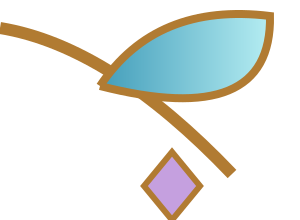
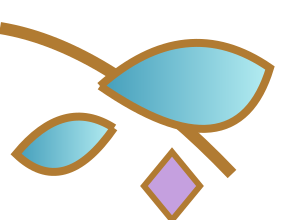
Improve cipher readability and make the final mirror puzzle visually distinct

Changed region(s): [[0.33, 0.0273, 0.93, 0.6273], [0.03, 0.4909, 0.39, 0.8182]]

diff --git a/enchanted-library/task-7.js b/enchanted-library/task-7.js
@@ -1,12 +1,12 @@
 'use strict';
 (()=>{const L=Library,A=L.art;let part=0;
-const descriptions=['Найди продолжение ряда. В ряду чередуются цвета и повторяются формы. Какой фигуры не хватает?','Открой второй замок: реши пример.','Найди недостающую часть узора. Справа должно быть зеркальное отражение левой стороны.'];
-const hints=['Проследи за цветами отдельно, а затем за формами. Цвета чередуются, а формы повторяются тройками.','Представь девять предметов. Убери четыре и сосчитай оставшиеся.','Представь зеркало на золотой линии посередине. Сравни изгиб стебля, форму листа и положение маленького кристалла.'];
-function pattern(){const lower=`<path d="M150 14 Q95 23 34 87" fill="none" stroke="#b17b32" stroke-width="6"/><path d="M100 43 Q57 5 15 34 Q32 90 100 43" fill="url(#jewel)" stroke="#b17b32" stroke-width="4"/><path d="M50 93 L64 76 L78 93 L64 110 Z" fill="#c5a0df" stroke="#b17b32" stroke-width="3"/>`;const top=`<path d="M175 120 Q70 103 47 35" fill="none" stroke="#b17b32" stroke-width="6"/><path d="M104 83 Q42 84 38 23 Q101 27 104 83" fill="#c7a0e2" stroke="#b17b32" stroke-width="4"/><path d="M138 49 L153 26 L165 50 L153 68Z" fill="#7ed0e2" stroke="#b17b32" stroke-width="3"/>`;return `<svg class="symmetry-pattern" viewBox="0 0 360 260" role="img" aria-label="Узор, симметричный относительно вертикальной золотой линии. Внизу справа отсутствует фрагмент."><defs><linearGradient id="jewel"><stop stop-color="#b5edf2"/><stop offset="1" stop-color="#429dba"/></linearGradient></defs><rect x="3" y="3" width="354" height="254" rx="22" fill="#fff4da" stroke="#c79b4d" stroke-width="5"/><path d="M180 13 V247" stroke="#bc8c37" stroke-width="3" stroke-dasharray="6 5"/>${top}<g transform="translate(360 0) scale(-1 1)">${top}</g><g transform="translate(20 135)">${lower}</g><rect id="pattern-hole" x="190" y="135" width="150" height="110" rx="10" fill="#e5d3ec" stroke="#9c6faa" stroke-width="2" stroke-dasharray="5 4"/><text id="pattern-question" x="265" y="200" text-anchor="middle" font-size="35" fill="#785488">?</text></svg>`;}
+const descriptions=['Найди продолжение ряда. В ряду чередуются цвета и повторяются формы. Какой фигуры не хватает?','Открой второй замок: реши пример.','Линия — это зеркало. Выбери фрагмент для пустого окошка: узор справа должен повторять левую сторону.'];
+const hints=['Проследи за цветами отдельно, а затем за формами. Цвета чередуются, а формы повторяются тройками.','Представь девять предметов. Убери четыре и сосчитай оставшиеся.','Линия посередине — это зеркало. Сравни, что растёт на веточке слева: листья или цветок? Сколько рядом маленьких кристаллов? Справа должно быть столько же, но в зеркальном положении.'];
+function pattern(){const lower=`<path d="M150 14 Q95 23 34 87" fill="none" stroke="#b17b32" stroke-width="6"/><path d="M100 43 Q57 5 15 34 Q32 90 100 43" fill="url(#jewel)" stroke="#b17b32" stroke-width="4"/><path d="M50 93 L64 76 L78 93 L64 110 Z" fill="#c5a0df" stroke="#b17b32" stroke-width="3"/>`;const top=`<path d="M175 120 Q70 103 47 35" fill="none" stroke="#b17b32" stroke-width="6"/><path d="M104 83 Q42 84 38 23 Q101 27 104 83" fill="#c7a0e2" stroke="#b17b32" stroke-width="4"/><path d="M138 49 L153 26 L165 50 L153 68Z" fill="#7ed0e2" stroke="#b17b32" stroke-width="3"/>`;return `<svg class="symmetry-pattern" viewBox="0 0 360 260" role="img" aria-label="Узор, симметричный относительно вертикальной золотой линии. Внизу справа отсутствует фрагмент."><defs><linearGradient id="jewel"><stop stop-color="#b5edf2"/><stop offset="1" stop-color="#429dba"/></linearGradient></defs><rect x="3" y="3" width="354" height="254" rx="22" fill="#fff4da" stroke="#c79b4d" stroke-width="5"/><path d="M180 13 V247" stroke="#348fa4" stroke-width="4" stroke-dasharray="8 5"/>${top}<g transform="translate(360 0) scale(-1 1)">${top}</g><g transform="translate(20 135)">${lower}</g><rect id="pattern-hole" x="190" y="135" width="150" height="110" rx="10" fill="#e5d3ec" stroke="#9c6faa" stroke-width="2" stroke-dasharray="5 4"/><text id="pattern-question" x="265" y="200" text-anchor="middle" font-size="35" fill="#785488">?</text></svg>`;}
 window.LibraryPattern={correct:2,description:'Mirror left lower ornament across x=180'};
 L.register(7,{title:'Семь печатей Книги',instruction:'Осталась последняя печать! Реши три загадки и открой три золотых замка Книги тысячи историй.',voice:()=>descriptions[part],hint:()=>hints[part],lumi:'lumi-reading',aside:'Мы почти у цели. Сказки ждут своего хранителя!',mount(root){part=0;let busy=false,done=false,timer;root.innerHTML=`<div class="final-book-layout"><div class="final-book"><img id="locked-book" src="assets/storybook.png" alt="Книга тысячи историй с тремя замками"><div class="locks" aria-label="Три золотых замка">${[1,2,3].map(i=>`<span class="lock" data-lock="${i-1}">${A('seal')}<b>${i}</b><small>Закрыт</small></span>`).join('')}</div></div><div class="final-challenge" id="challenge"></div></div>`;
 function unlock(){if(busy||done)return;busy=true;const lock=root.querySelector(`[data-lock="${part}"]`);lock.classList.add('unlocked');lock.querySelector('small').textContent='Открыт';L.tone();L.message('Верно! Замок открыт.');if(part===2){done=true;root.querySelector('#locked-book').src='assets/open-book.png';root.querySelector('#locked-book').alt='Открытая Книга тысячи историй';root.querySelector('.final-book').classList.add('finished-art');timer=setTimeout(L.success,1100);}else{root.querySelectorAll('#challenge button').forEach(b=>b.disabled=true);const next=document.createElement('button');next.textContent='К следующему замку';next.className='next-lock';next.onclick=()=>{part++;busy=false;paint();};root.querySelector('#challenge').append(next);}}
 function choose(correct){if(busy||done)return;if(correct)unlock();else L.message('Попробуй ещё раз!',true);}
-function paint(){const c=root.querySelector('#challenge');c.innerHTML=`<span class="chapter gold-text">ЗАМОК ${part+1} ИЗ 3</span><p class="caption">${descriptions[part]}</p>`;if(part===0){const seq=[['purple','triangle'],['blue','circle'],['purple','square'],['blue','triangle'],['purple','circle']];c.innerHTML+=`<div class="shape-sequence" aria-label="Фиолетовый треугольник, голубой круг, фиолетовый квадрат, голубой треугольник, фиолетовый круг, вопрос">${seq.map(([color,shape])=>A('shape-'+color+'-'+shape)).join('<span>→</span>')}<span>→</span><strong>?</strong></div><div class="choices shape-choices">${[['purple','square'],['blue','triangle'],['blue','square'],['purple','circle']].map(([co,sh],i)=>`<button data-sequence="${i}" aria-label="${co==='blue'?'Голубой':'Фиолетовый'} ${sh==='square'?'квадрат':sh==='triangle'?'треугольник':'круг'}">${A('shape-'+co+'-'+sh)}</button>`).join('')}</div>`;c.querySelectorAll('[data-sequence]').forEach(b=>b.onclick=()=>choose(+b.dataset.sequence===2));}else if(part===1){c.innerHTML+=`<div class="arithmetic">9 − 4 = ?</div><div class="choices">${[4,5,6].map(n=>`<button data-answer="${n}">${n}</button>`).join('')}</div>`;c.querySelectorAll('[data-answer]').forEach(b=>b.onclick=()=>choose(+b.dataset.answer===5));}else{c.innerHTML+=pattern()+`<div class="pattern-options">${[0,1,2,3].map(i=>`<button data-pattern="${i}" aria-label="Фрагмент ${i+1}">${A('pattern-'+i)}<span>${i+1}</span></button>`).join('')}</div>`;c.querySelectorAll('[data-pattern]').forEach(b=>b.onclick=()=>{if(busy||done)return;if(+b.dataset.pattern===2){const svg=root.querySelector('.symmetry-pattern');svg.querySelector('#pattern-hole').setAttribute('fill','#fff4da');svg.querySelector('#pattern-hole').setAttribute('stroke','none');svg.querySelector('#pattern-question').remove();svg.insertAdjacentHTML('beforeend','<image href="assets/pattern-2.png" x="190" y="135" width="150" height="110"/>');}choose(+b.dataset.pattern===2);});}L.speak(descriptions[part]);}paint();return()=>clearTimeout(timer);
+function paint(){const c=root.querySelector('#challenge');root.querySelector('.final-book-layout').classList.toggle('puzzle-mode',part===2);root.closest('.game-scene').classList.toggle('mirror-scene',part===2);c.classList.toggle('symmetry-mode',part===2);c.innerHTML=`<span class="chapter gold-text">ЗАМОК ${part+1} ИЗ 3</span><p class="caption">${descriptions[part]}</p>`;if(part===0){const seq=[['purple','triangle'],['blue','circle'],['purple','square'],['blue','triangle'],['purple','circle']];c.innerHTML+=`<div class="shape-sequence" aria-label="Фиолетовый треугольник, голубой круг, фиолетовый квадрат, голубой треугольник, фиолетовый круг, вопрос">${seq.map(([color,shape])=>A('shape-'+color+'-'+shape)).join('<span>→</span>')}<span>→</span><strong>?</strong></div><div class="choices shape-choices">${[['purple','square'],['blue','triangle'],['blue','square'],['purple','circle']].map(([co,sh],i)=>`<button data-sequence="${i}" aria-label="${co==='blue'?'Голубой':'Фиолетовый'} ${sh==='square'?'квадрат':sh==='triangle'?'треугольник':'круг'}">${A('shape-'+co+'-'+sh)}</button>`).join('')}</div>`;c.querySelectorAll('[data-sequence]').forEach(b=>b.onclick=()=>choose(+b.dataset.sequence===2));}else if(part===1){c.innerHTML+=`<div class="arithmetic">9 − 4 = ?</div><div class="choices">${[4,5,6].map(n=>`<button data-answer="${n}">${n}</button>`).join('')}</div>`;c.querySelectorAll('[data-answer]').forEach(b=>b.onclick=()=>choose(+b.dataset.answer===5));}else{c.innerHTML+=`<div class="mirror-workbench"><div class="mirror-board">`+pattern()+`<p class="mirror-note">Линия посередине — зеркало. Сравни листья, цветок и маленькие кристаллы.</p></div><div class="pattern-options">${[0,1,2,3].map(i=>`<button data-pattern="${i}" aria-label="Фрагмент ${i+1}">${A('pattern-'+i).replace('.png"','.png?v=2"')}<span>Вариант ${i+1}</span></button>`).join('')}</div></div>`;c.querySelectorAll('[data-pattern]').forEach(b=>b.onclick=()=>{if(busy||done)return;if(+b.dataset.pattern===2){const svg=root.querySelector('.symmetry-pattern');svg.querySelector('#pattern-hole').setAttribute('fill','#fff4da');svg.querySelector('#pattern-hole').setAttribute('stroke','none');svg.querySelector('#pattern-question').remove();svg.insertAdjacentHTML('beforeend','<image href="assets/pattern-2.png?v=2" x="190" y="135" width="150" height="110"/>');}choose(+b.dataset.pattern===2);});}L.speak(descriptions[part]);}paint();return()=>clearTimeout(timer);
 }});
 })();

diff --git a/enchanted-library/library.css b/enchanted-library/library.css
@@ -21,3 +21,15 @@
 /* A classic scrollbar must not force narrow phone layouts beyond the viewport. */
 body{min-width:0}.balance{width:100%;min-width:0}.balance-examples{grid-template-columns:repeat(2,minmax(0,1fr))}.balance-examples>div{min-width:0}
 @media(max-width:620px){.small-balance{min-height:0}}
+/* Readable cipher key: every symbol and letter stays on the central paper. */
+.cipher-table{gap:12px;padding:32px clamp(48px,6vw,82px);align-items:stretch}
+.cipher-table>div{flex-direction:column;gap:8px;padding:12px 6px;background:#fffdf4;border:1px solid #d3b275;border-radius:14px;box-shadow:0 3px 9px #895f2520}
+.cipher-table img{width:64px;height:64px;max-width:100%}.cipher-table span{font-size:29px;line-height:1.2;color:#3c204a}
+/* Give the mirror puzzle the full stage and large, visibly different choices. */
+.final-book-layout.puzzle-mode{grid-template-columns:minmax(0,1fr);gap:18px}.puzzle-mode .final-book{display:flex;align-items:center;justify-content:center;gap:24px}.puzzle-mode .final-book>img{width:90px;max-height:110px}.puzzle-mode .locks{margin:0}
+.symmetry-mode .symmetry-pattern{width:100%;max-width:620px;max-height:none;margin:18px auto}.symmetry-mode .caption{font-size:20px;max-width:640px;line-height:1.5}
+.symmetry-mode .pattern-options{grid-template-columns:repeat(2,minmax(0,1fr));max-width:620px;width:100%;gap:16px;margin-top:22px}.symmetry-mode .pattern-options button{padding:12px;border-radius:18px;display:flex;flex-direction:column;align-items:center;gap:8px;border:2px solid #b391bc}.symmetry-mode .pattern-options img{width:100%;height:auto;max-height:160px;object-fit:contain}.symmetry-mode .pattern-options span{position:static;display:block;font-size:17px;line-height:1.3;color:#4c2850}.mirror-note{color:#526279;font-size:15px;line-height:1.45;margin:8px auto 0;max-width:560px}
+@media(max-width:620px){.cipher-table{grid-template-columns:repeat(6,minmax(0,1fr));padding:12px;gap:9px;background:linear-gradient(#fffdf1,#f3e4c7);border:1px solid #d3b275;border-radius:18px}.cipher-table>div{grid-column:span 2;padding:10px 5px;gap:6px}.cipher-table>div:nth-child(4){grid-column:2/span 2}.cipher-table>div:nth-child(5){grid-column:4/span 2}.cipher-table img{width:52px;height:52px}.cipher-table span{font-size:25px}.symmetry-mode .caption{font-size:17px}.symmetry-mode .pattern-options{gap:10px}.symmetry-mode .pattern-options button{padding:8px;gap:5px}.symmetry-mode .pattern-options span{font-size:15px}.mirror-note{font-size:14px}.puzzle-mode .final-book{gap:16px}.puzzle-mode .final-book>img{width:75px;max-height:90px}}
+.game-scene.mirror-scene{grid-template-columns:minmax(0,1fr)}.mirror-scene .companion{display:flex;align-items:center;justify-self:center;max-width:440px;gap:14px}.mirror-scene .companion img{width:90px;height:100px}.mirror-scene .companion p{margin:0;text-align:left}
+.mirror-workbench{display:grid;grid-template-columns:minmax(0,1.25fr) minmax(0,1fr);align-items:center;gap:20px;max-width:900px;margin:18px auto 0}.mirror-board{min-width:0}.mirror-board .symmetry-pattern{margin:0}.mirror-workbench .pattern-options{margin:0;max-width:none;align-content:center}.symmetry-mode .caption{max-width:850px;font-size:19px}
+@media(max-width:699px){.mirror-workbench{grid-template-columns:minmax(0,1fr);gap:18px;max-width:460px}.mirror-workbench .pattern-options{gap:10px}.symmetry-mode .caption{font-size:17px}.mirror-scene .companion img{width:75px;height:85px}}

diff --git a/enchanted-library/index.html b/enchanted-library/index.html
@@ -1,3 +1,3 @@
 <!doctype html>
-<html lang="ru"><head><meta charset="utf-8"><meta name="viewport" content="width=device-width, initial-scale=1"><meta name="theme-color" content="#281039"><meta name="description" content="Семь загадок Зачарованной библиотеки — интерактивное приключение Луми для детей 6–7 лет."><title>Луми и Тайна Зачарованной библиотеки</title><link rel="stylesheet" href="library.css"></head>
-<body><div class="ambient" aria-hidden="true"></div><header class="topbar"><a href="../crystal-world.html#age-6-7">← В главное меню</a><span class="brand">Lumi · Кристальный мир</span><button id="sound" aria-pressed="false">Звук: выкл.</button></header><main id="app"></main><dialog id="hint-dialog"><h2>Маленькая подсказка</h2><p id="hint-text"></p><button id="close-hint">Понятно</button></dialog><dialog id="success-dialog" aria-labelledby="success-title"><img src="assets/star.png" alt="Золотая звезда" class="success-star"><h2 id="success-title">ПРАВИЛЬНО!</h2><p id="success-text"></p><button id="next">Дальше</button></dialog><div id="toast" role="status" aria-live="polite"></div><script src="library.js"></script><script src="tasks-12.js"></script><script src="tasks-34.js"></script><script src="tasks-56.js"></script><script src="task-7.js"></script><script>Library.start();</script></body></html>
+<html lang="ru"><head><meta charset="utf-8"><meta name="viewport" content="width=device-width, initial-scale=1"><meta name="theme-color" content="#281039"><meta name="description" content="Семь загадок Зачарованной библиотеки — интерактивное приключение Луми для детей 6–7 лет."><title>Луми и Тайна Зачарованной библиотеки</title><link rel="stylesheet" href="library.css?v=2"></head>
+<body><div class="ambient" aria-hidden="true"></div><header class="topbar"><a href="../crystal-world.html#age-6-7">← В главное меню</a><span class="brand">Lumi · Кристальный мир</span><button id="sound" aria-pressed="false">Звук: выкл.</button></header><main id="app"></main><dialog id="hint-dialog"><h2>Маленькая подсказка</h2><p id="hint-text"></p><button id="close-hint">Понятно</button></dialog><dialog id="success-dialog" aria-labelledby="success-title"><img src="assets/star.png" alt="Золотая звезда" class="success-star"><h2 id="success-title">ПРАВИЛЬНО!</h2><p id="success-text"></p><button id="next">Дальше</button></dialog><div id="toast" role="status" aria-live="polite"></div><script src="library.js"></script><script src="tasks-12.js"></script><script src="tasks-34.js"></script><script src="tasks-56.js"></script><script src="task-7.js?v=2"></script><script>Library.start();</script></body></html>

diff --git a/crystal-world.html b/crystal-world.html
@@ -275,7 +275,7 @@
                     <h3>Луми и Тайна Зачарованной библиотеки</h3>
                     <p>Разгадай шифр, собери ключи, восстанови сказку и открой семь печатей Книги тысячи историй.</p>
                     <div class="quest-skills"><span>Логика</span><span>Чтение</span><span>Счёт</span><span>Геометрия</span></div>
-                    <a href="enchanted-library/index.html?welcome=1" class="quest-button">Начать приключение →</a>
+                    <a href="enchanted-library/index.html?welcome=1&amp;v=2" class="quest-button">Начать приключение →</a>
                 </div>
             </article>
         </div>

diff --git a/enchanted-library/QA.md b/enchanted-library/QA.md
@@ -34,3 +34,11 @@
 ## Границы проверки
 
 Это проверка браузера по размерам устройств. Физические iPhone/iPad, Android и отдельный запуск Safari в этой среде недоступны. Русская озвучка использует голос устройства через SpeechSynthesis; наличие русского голоса и слышимость на конкретном устройстве не подтверждены. Звуковые эффекты создаются через Web Audio после действия пользователя и отключаются переключателем.
+
+## Уточнение видимости после просмотра на iPad
+
+Символы шифра увеличены и размещены вместе с буквами на отдельных светлых подложках в центральной части свитка. На телефонах таблица перестраивается в два ряда.
+
+В последней загадке узор и четыре варианта увеличены. На планшете и компьютере варианты стоят рядом с образцом, на узком экране — ниже. Отвлекающие фрагменты теперь отличаются заметными признаками: дополнительным листом, цветком вместо листа либо дополнительным кристаллом. Правильный фрагмент и принцип зеркальной симметрии сохранены. Инструкция и подсказка упрощены.
+
+Проверены два изменённых задания на шести ширинах 320–1366 px: 12 сочетаний, без горизонтальной прокрутки, обрезанных элементов управления и незагрузившихся PNG. Шифр принимается как прежде; в зеркальном узоре все три неверных варианта отклонены, единственный верный принят с наградой. Синтаксис JavaScript и существующая автоматическая проверка пройдены.

diff --git a/enchanted-library/ASSETS.md b/enchanted-library/ASSETS.md
@@ -19,4 +19,4 @@
 | lumi-welcome.png, lumi-thinking.png, lumi-happy.png, lumi-reward.png, star.png, crystal.png | Утверждённые ресурсы из «Звёздной башни», перенесённые без изменения образа. |
 | glass-0.png … glass-5.png | Фрагменты с точными контурами, вырезанные из созданного витража. Три подходящие детали и три отвлекающие. |
 | shape-*.png | Шесть геометрически точных фигур двух цветов с золотыми краями и бликами для закономерности. |
-| pattern-0.png … pattern-3.png | Четыре точных фрагмента книжного узора; только № 3 зеркально соответствует левой половине. |
+| pattern-0.png … pattern-3.png | Четыре точных фрагмента книжного узора с хорошо различимыми вариантами: два листа; цветок; один лист и один кристалл; один лист и два кристалла. Только № 3 зеркально соответствует левой половине. |
